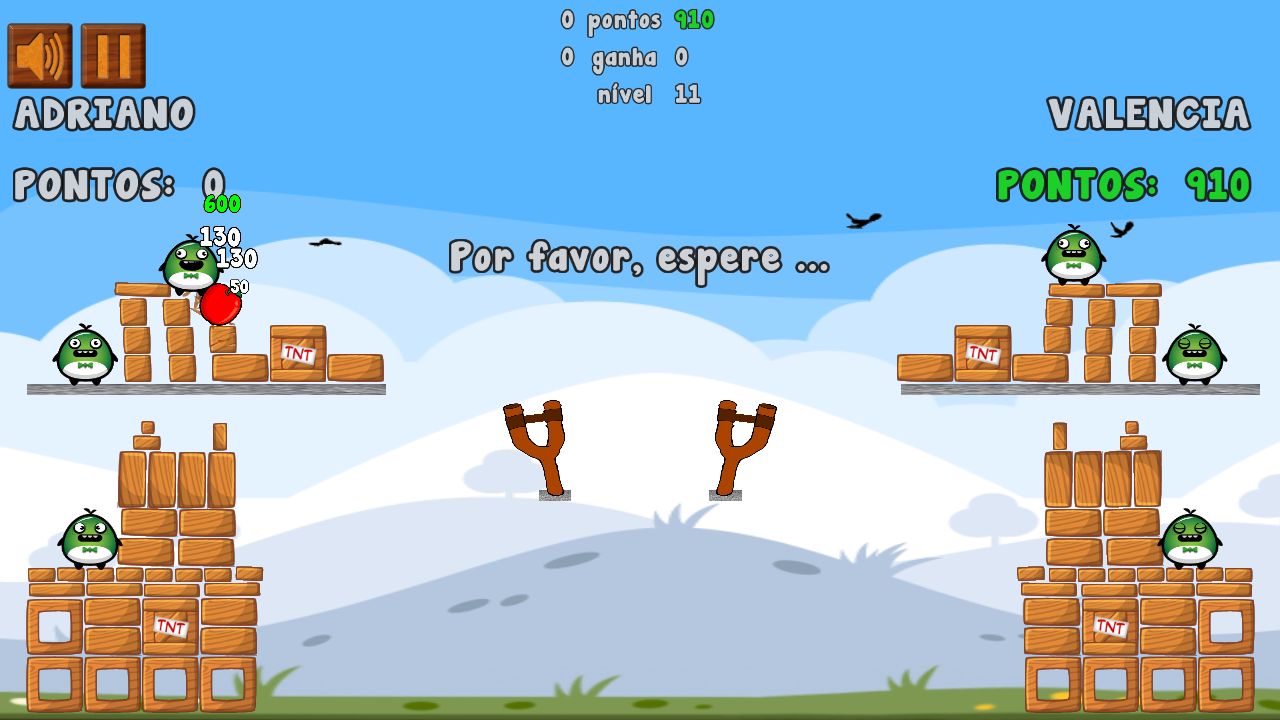
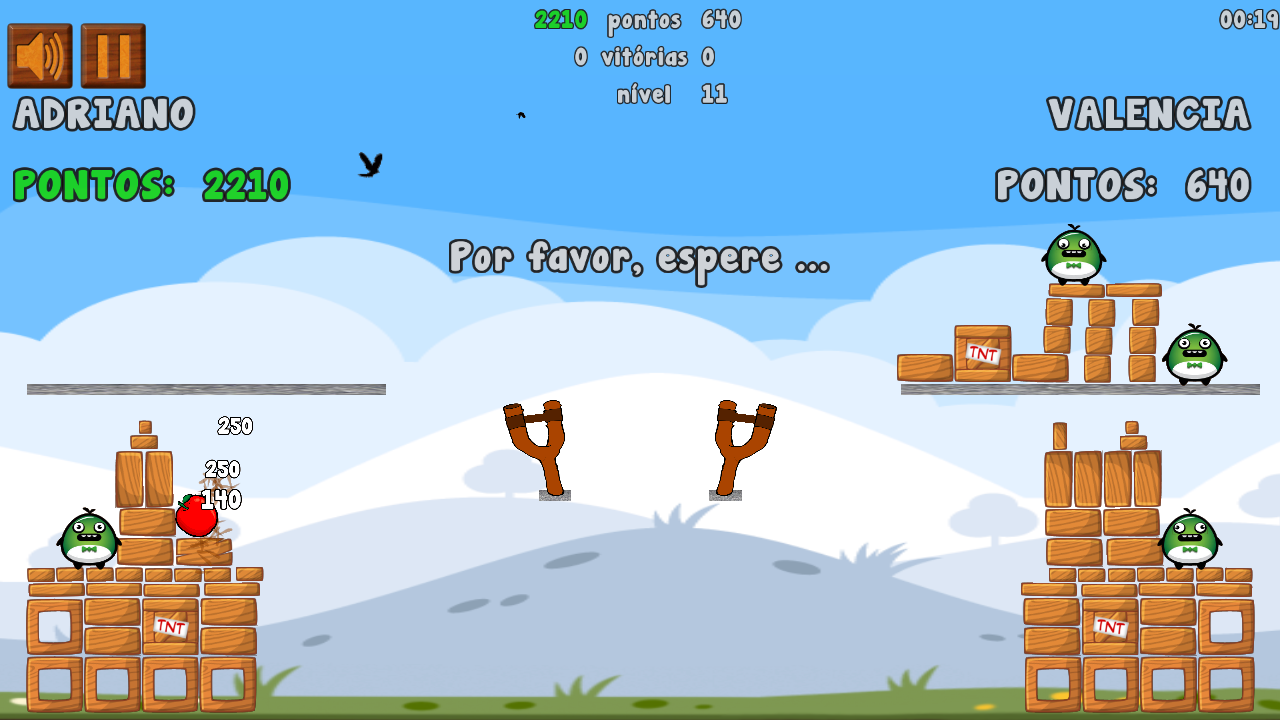
added italian flag, italian keyboard, italian  screenshots, updated screenshots of es, gl and pt since they had language updates

diff --git a/tests/src-integration/com/gitlab/ardash/appleflinger/testing/integration/DesktopTestdriveTest.java b/tests/src-integration/com/gitlab/ardash/appleflinger/testing/integration/DesktopTestdriveTest.java
@@ -39,12 +39,8 @@ import com.gitlab.ardash.appleflinger.screens.MissionSelectScreen;
 
 public class DesktopTestdriveTest implements ActionResolver{
 	
-	private static final String [] langs = {"de","en","eo","es","fr","gl","nb","nl","pl","pt"}; // all latin
-//	private static final String [] langs = {"es", "fr"};
-//	private static final String [] langs = {"de","en","es","fr"};
-//	private static final String [] langs = {"eo","pl"};
-//	private static final String [] langs = {"pt"};
-//	private static final String [] langs = {"nl","gl"};
+//	private static final String [] langs = {"de","en","eo","es","fr","gl","it","nb","nl","pl","pt"}; // all latin
+	private static final String [] langs = {"es","gl","it","pt"}; // recently updated ones
 //	private static final String [] langs = {"ru"}; // separate non-latin load
 	
 	private static final Mission [] missions = {Mission.M_1_1, Mission.M_1_3, Mission.M_1_4
@@ -108,6 +104,8 @@ public class DesktopTestdriveTest implements ActionResolver{
 		n2.put("fr", "Debonnaire".toUpperCase());
 		n1.put("gl", "Estevo".toUpperCase());
 		n2.put("gl", "Maruxa".toUpperCase());
+		n1.put("it", "Giuseppe".toUpperCase());
+		n2.put("it", "Valentina".toUpperCase());
 		n1.put("nb", "Jørgen".toUpperCase());
 		n2.put("nb", "Ragnhild".toUpperCase());
 		n1.put("nl", "Espen".toUpperCase());

diff --git a/core/src/com/gitlab/ardash/appleflinger/screens/LanguageDialog.java b/core/src/com/gitlab/ardash/appleflinger/screens/LanguageDialog.java
@@ -51,6 +51,7 @@ public class LanguageDialog extends AdvancedDialog{
 		getContentTable().add(makeLingoButton(Assets.SpriteAsset.FLAG_ES, "\n\nespañol"));
 		getContentTable().add(makeLingoButton(Assets.SpriteAsset.FLAG_FR, "\n\nfrançais"));
 		getContentTable().add(makeLingoButton(Assets.SpriteAsset.FLAG_GL, "\n\ngalego"));
+		getContentTable().add(makeLingoButton(Assets.SpriteAsset.FLAG_IT, "\n\nitaliano"));
 		getContentTable().row().minHeight(180).top();
 		getContentTable().add(makeLingoButton(Assets.SpriteAsset.FLAG_NL, "\n\nnederlands"));
 		getContentTable().add(makeLingoButton(Assets.SpriteAsset.FLAG_PL, "\n\npolski"));

diff --git a/core/src/com/gitlab/ardash/appleflinger/screens/TextInputDialog.java b/core/src/com/gitlab/ardash/appleflinger/screens/TextInputDialog.java
@@ -170,6 +170,15 @@ public class TextInputDialog extends AdvancedDialog{
 			tblContent.row();
 			tblContent.add(makeKeyboardRow("WXCVBNÏÎ"));
 			tblContent.row();
+		} else if (langCode.equals("it")) {
+			tblContent.row();
+			tblContent.add(makeKeyboardRow("QWERTYUIOPÈÉ"));
+	        tblContent.add(btnBackSpace);
+			tblContent.row();
+			tblContent.add(makeKeyboardRow("ASDFGHJKLÒÀÙ"));
+			tblContent.row();
+			tblContent.add(makeKeyboardRow("ZXCVBNMÍÎÚÓÌ"));
+			tblContent.row();
 		} else if (langCode.equals("ru")) {
 			tblContent.row();
 			tblContent.add(makeKeyboardRow("ЙЦУКЕНГШЩЗХЪ"));

diff --git a/desktop/src/com/gitlab/ardash/appleflinger/desktop/DesktopLauncher.java b/desktop/src/com/gitlab/ardash/appleflinger/desktop/DesktopLauncher.java
@@ -22,7 +22,6 @@ import com.badlogic.gdx.backends.lwjgl.LwjglApplicationConfiguration;
 import com.badlogic.gdx.tools.texturepacker.TexturePacker.Settings;
 import com.gitlab.ardash.appleflinger.ActionResolver;
 import com.gitlab.ardash.appleflinger.AppleflingerGame;
-import com.gitlab.ardash.appleflinger.ai.HCStrategy;
 import com.gitlab.ardash.appleflinger.global.Assets;
 import com.gitlab.ardash.appleflinger.global.GameManager;
 import com.gitlab.ardash.appleflinger.missions.Mission;

diff --git a/tests/src/com/gitlab/ardash/appleflinger/testing/sanity/AssetTest.java b/tests/src/com/gitlab/ardash/appleflinger/testing/sanity/AssetTest.java
@@ -93,6 +93,13 @@ public class AssetTest {
 	}
 	
 	@Test
+	public void isI18NWorkingForIT() {
+		I18N.loadLanguageBundle("it");
+		assertEquals("È Il Tuo Turno", I18N.s("itIsYourTurn"));
+		assertEquals("inizia nuova partita", I18N.s("startNewGame"));
+	}
+	
+	@Test
 	public void isI18NWorkingForPL() {
 		I18N.loadLanguageBundle("pl");
 		assertEquals("domyślny", I18N.s("default"));

diff --git a/core/src/com/gitlab/ardash/appleflinger/global/Assets.java b/core/src/com/gitlab/ardash/appleflinger/global/Assets.java
@@ -281,6 +281,7 @@ public class Assets {
 		FLAG_ES,
 		FLAG_FR,
 		FLAG_GL,
+		FLAG_IT,
 		FLAG_NB,
 		FLAG_NL,
 		FLAG_PL,
